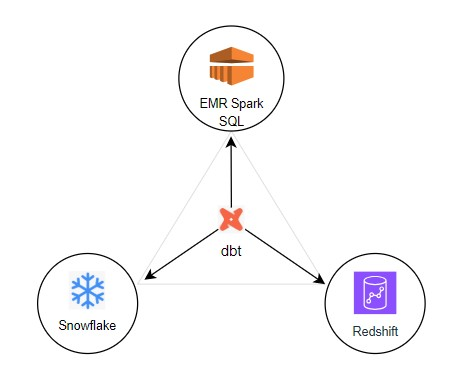
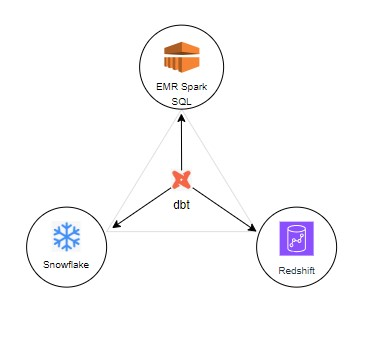
docs: format README.md, revised dbt portability diagram

diff --git a/README.md b/README.md
@@ -61,7 +61,6 @@ Designed for **portability, cost-performance benchmarking, and real-time insight
 
 ## 📂 Repo Structure
 
-## Repo Structure
 
 ```text
 ZenClarity-UrbanFlow/
@@ -86,7 +85,6 @@ ZenClarity-UrbanFlow/
 │  ├─ streaming/               # Simulator + Kinesis delivery
 │  └─ helpers/                 # Shared utilities
 └─ venv/                       # (ignored)
-
 
 ---
 
